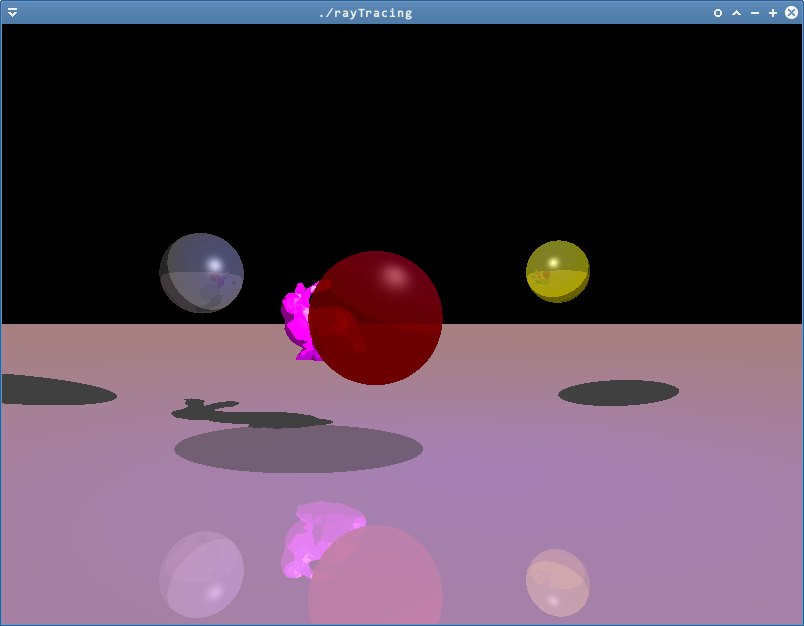
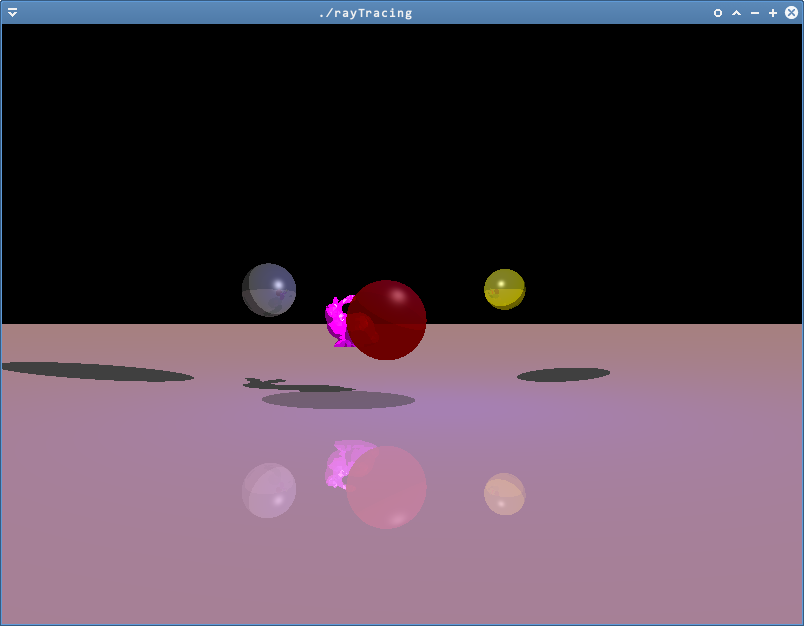
CHANGE the screen postion,new screenshots

diff --git a/main.cc b/main.cc
@@ -27,10 +27,11 @@
 #define EPILSON 0.0001
 #define BUNNY_VERTICES 453
 #define BUNNY_FACES 948
+#define SCREEN_Z 30
 
 std::vector<GObject*> object_list;
 std::vector<LightSource*> light_list;
-GVector3 CameraPosition(0.0f,0.0f,60.0f);
+GVector3 CameraPosition(0.0f,0.0f,90.0f);
 GVector3 globalLight(1.0f,1.0f,1.0f);
 
 double HALF_PIXEL_WIDTH = double(SCENE_WIDTH) / double(IMAGE_WIDTH*2.0f);
@@ -184,24 +185,24 @@ GVector3 samplePixel(int i,int j) {
 #endif //multiray
   GVector3 pixel,direction,resultColor;
   Ray ray;
-  pixel=GVector3(left_bottom_x,left_bottom_y,0);
+  pixel=GVector3(left_bottom_x,left_bottom_y,SCREEN_Z);
   direction=pixel-CameraPosition;
   ray=Ray(CameraPosition,direction);
   resultColor+=Tracer(ray,TRACE_DEPTH);
 #ifdef MULTIRAY
-  pixel=GVector3(left_top_x,left_top_y,0);
+  pixel=GVector3(left_top_x,left_top_y,SCREEN_Z);
   direction=pixel-CameraPosition;
   ray=Ray(CameraPosition,direction);
   resultColor+=Tracer(ray,TRACE_DEPTH);
-  pixel=GVector3(right_bottom_x,right_bottom_y,0);
+  pixel=GVector3(right_bottom_x,right_bottom_y,SCREEN_Z);
   direction=pixel-CameraPosition;
   ray=Ray(CameraPosition,direction);
   resultColor+=Tracer(ray,TRACE_DEPTH);
-  pixel=GVector3(right_top_x,right_top_y,0);
+  pixel=GVector3(right_top_x,right_top_y,SCREEN_Z);
   direction=pixel-CameraPosition;
   ray=Ray(CameraPosition,direction);
   resultColor+=Tracer(ray,TRACE_DEPTH);
-  pixel=GVector3(center_x,center_y,0);
+  pixel=GVector3(center_x,center_y,SCREEN_Z);
   direction=pixel-CameraPosition;
   ray=Ray(CameraPosition,direction);
   resultColor+=Tracer(ray,TRACE_DEPTH);
